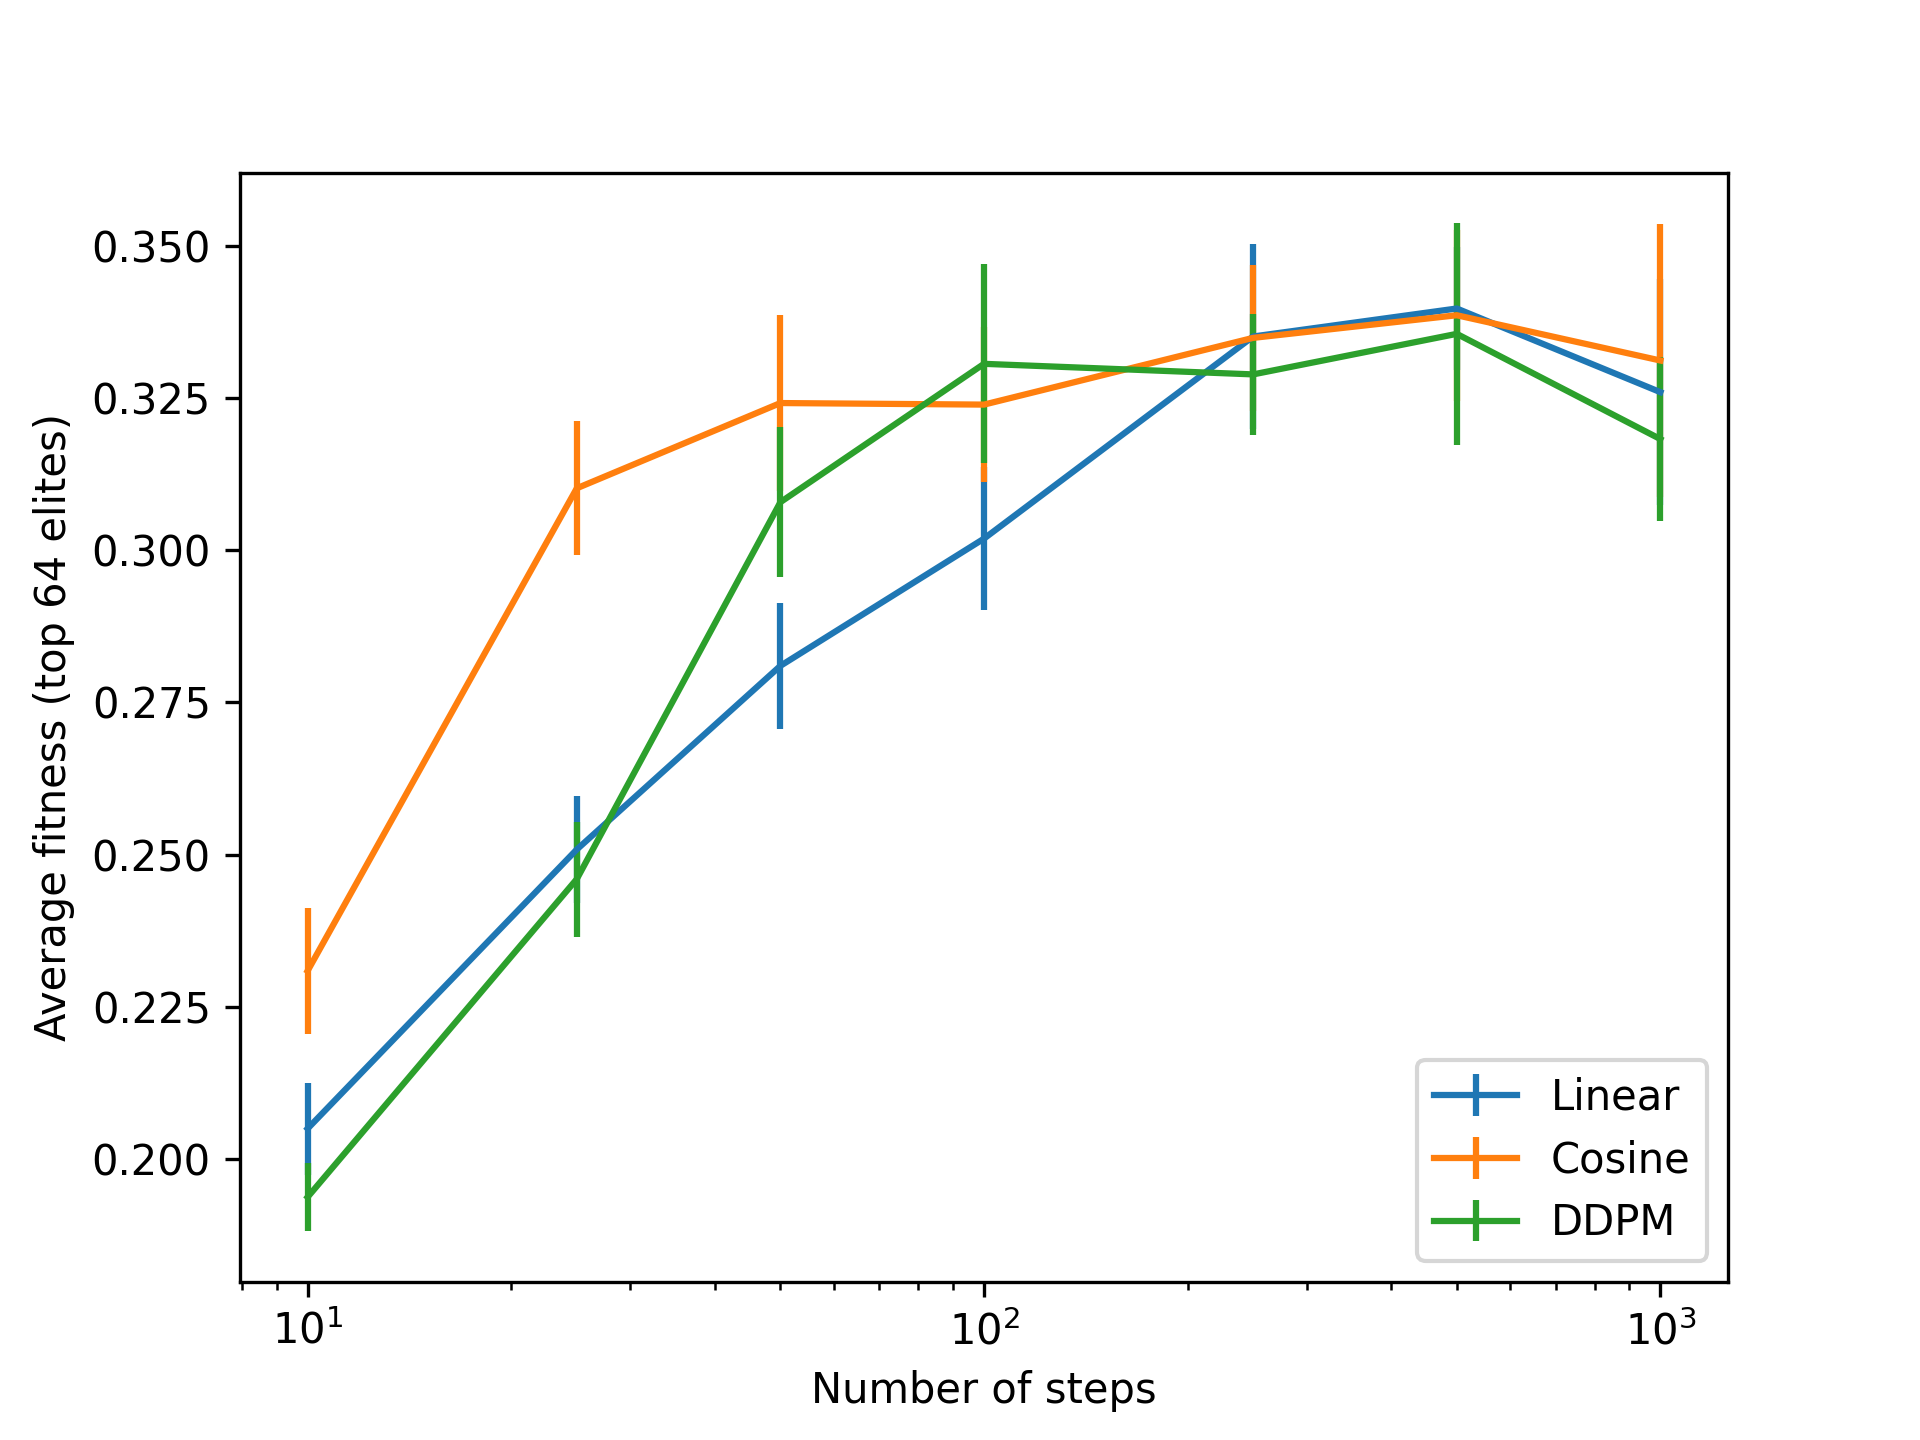
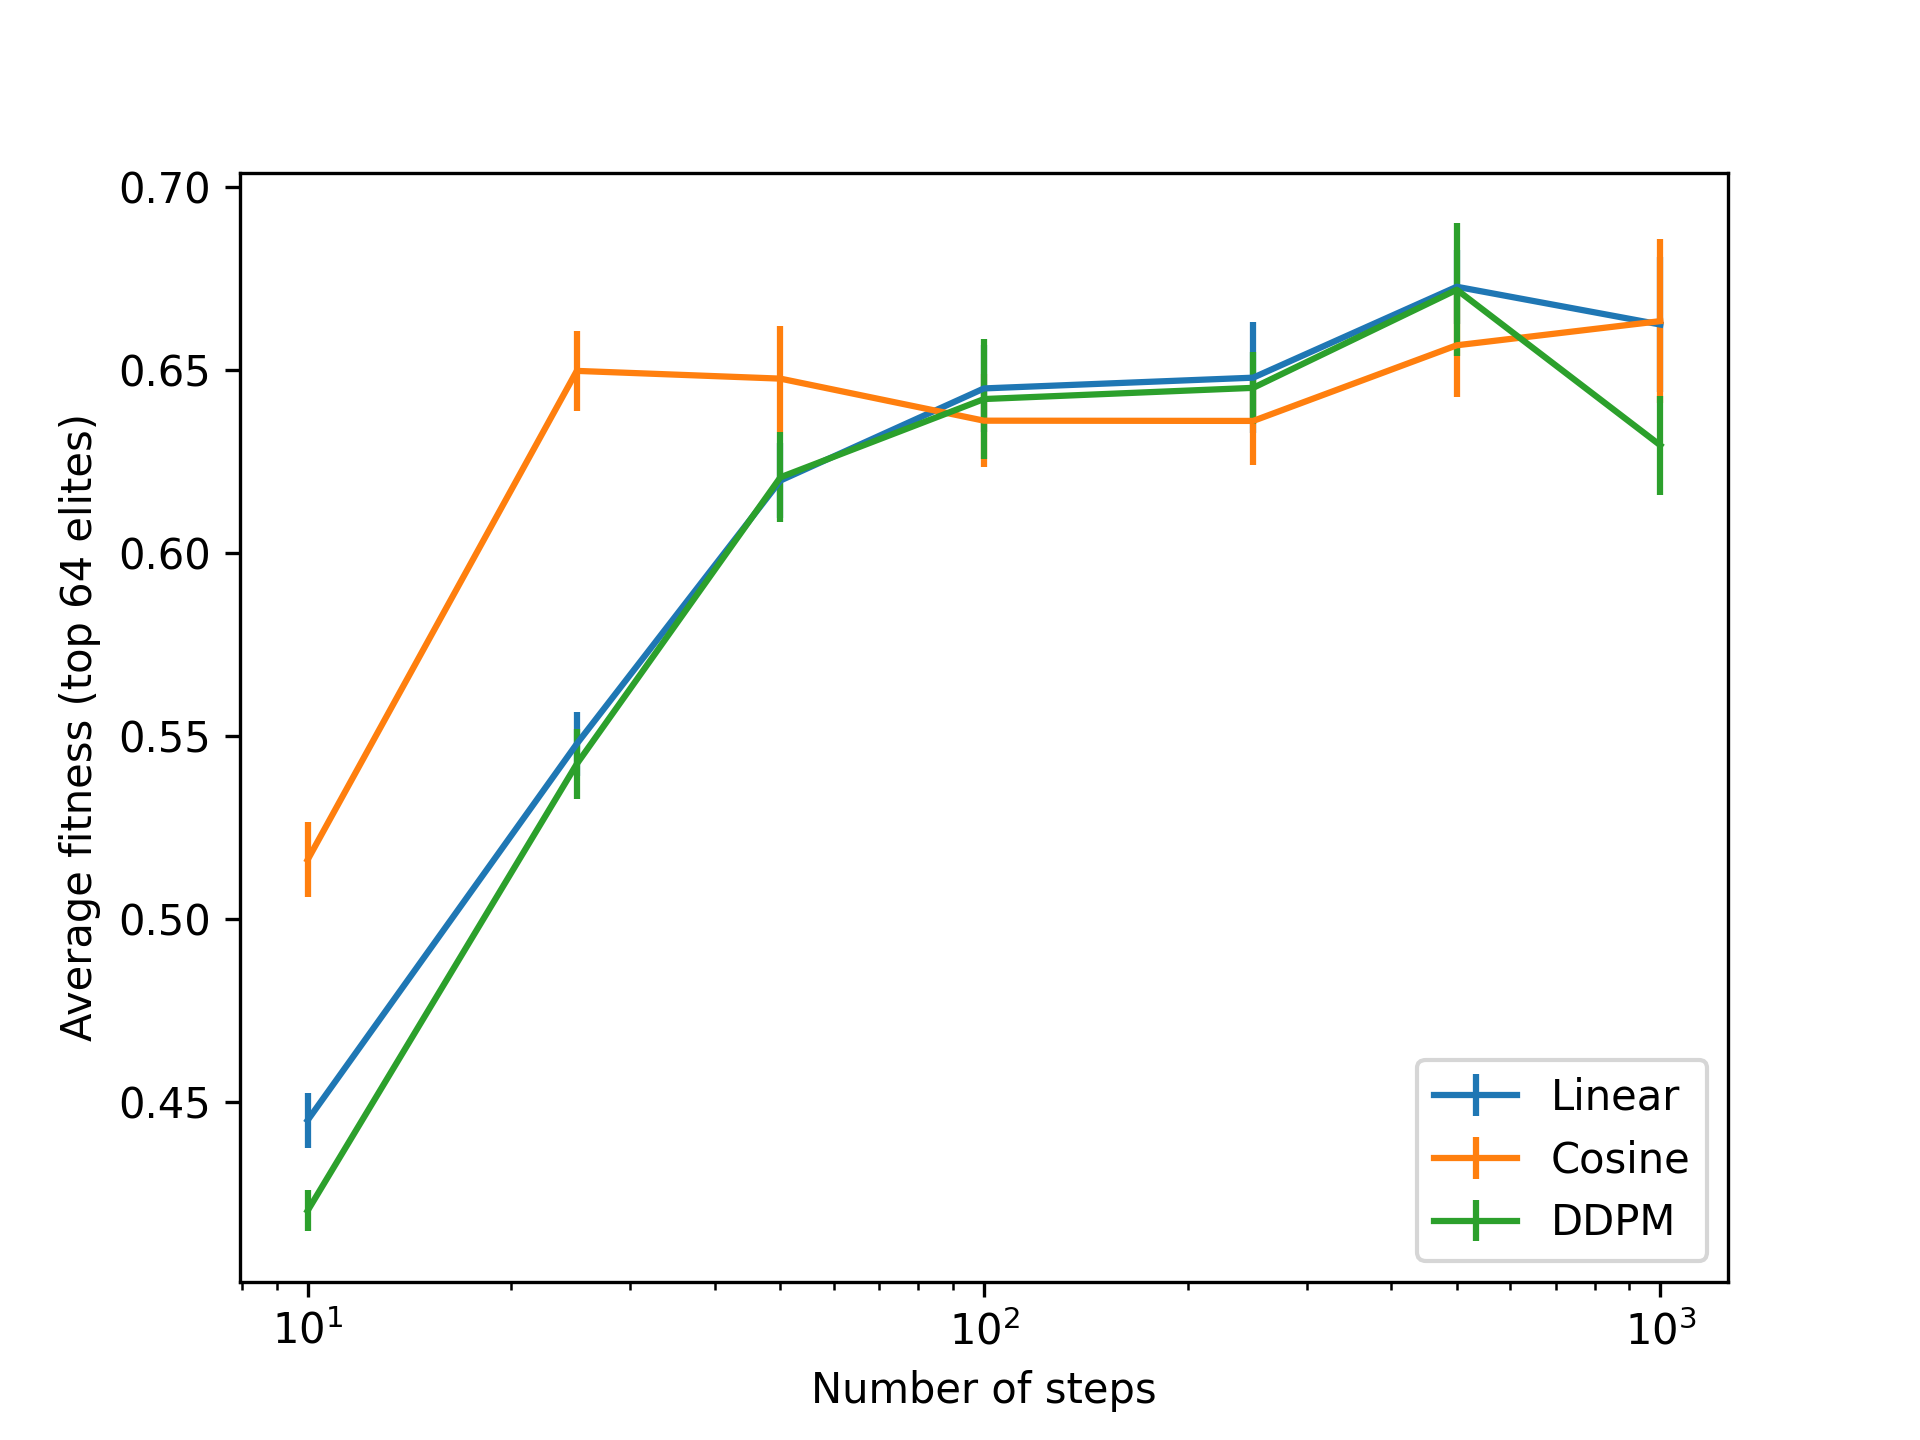
fix bug

diff --git a/experiments/benchmarks/plot_alphas.py b/experiments/benchmarks/plot_alphas.py
@@ -9,13 +9,14 @@ name_table = {
     'DDIMScheduler': 'Linear',
 }
 
-def get_avg_fitness(record, idx_exp, idx_step, top_n=1e9):
-    # Extract fitness values for rastrigin benchmark
-    fitnesses = record['records'][idx_exp][idx_step]['rastrigin']['fitnesses'][-1]
-    num_steps = record['records'][idx_exp][idx_step]['rastrigin']['arguments']['num_step']
-    
-    # Calculate mean of top-n fitnesses
-    return fitnesses[:int(min(len(fitnesses), top_n))].mean(), num_steps
+def get_avg_fitness(record, idx_experiment, idx_step, top_n=1e9):
+    data = record['records'][idx_experiment][idx_step]['rastrigin']
+    num_steps = data['arguments']['num_step']
+    all_fitnesses = data['fitnesses'][-1]
+    all_fitnesses = all_fitnesses.sort().values
+    top_n = min(top_n, len(all_fitnesses))
+    top_n_fitnesses = all_fitnesses[-top_n:]
+    return top_n_fitnesses.mean().item(), num_steps
 
 def get_step_fitness(record, top_n=1e9):
     total_step_fitness = []
